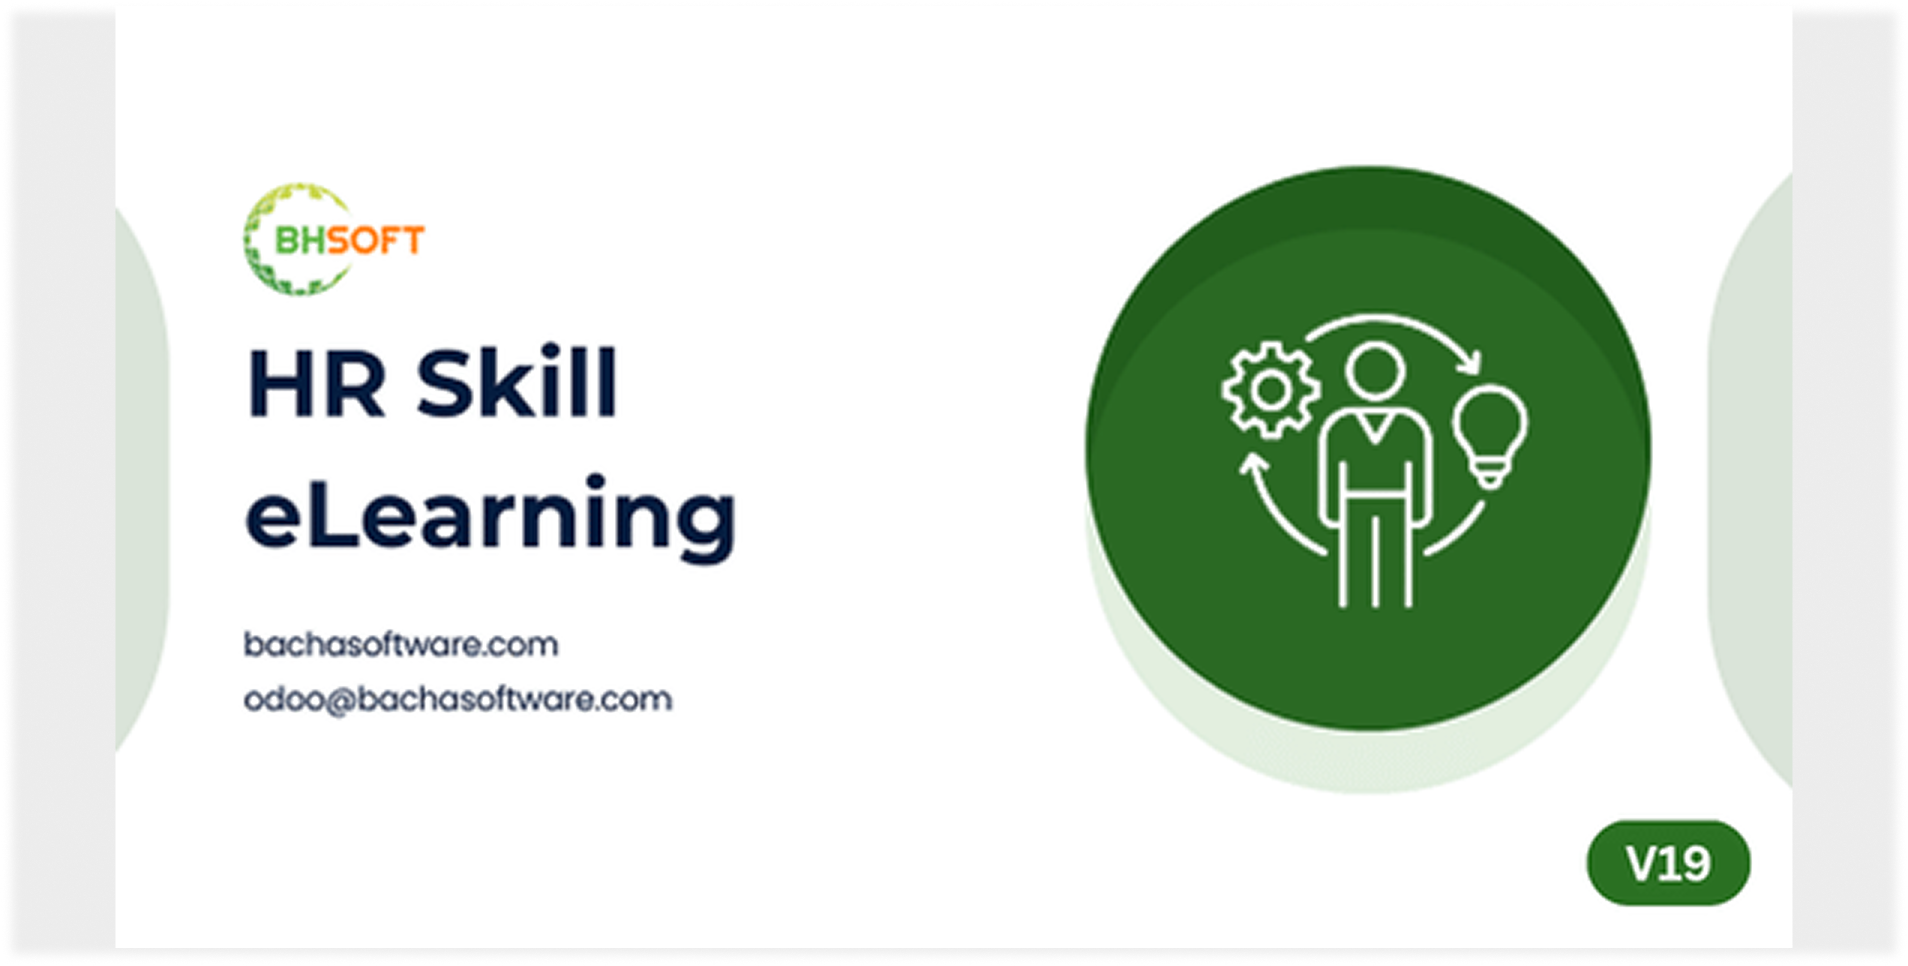
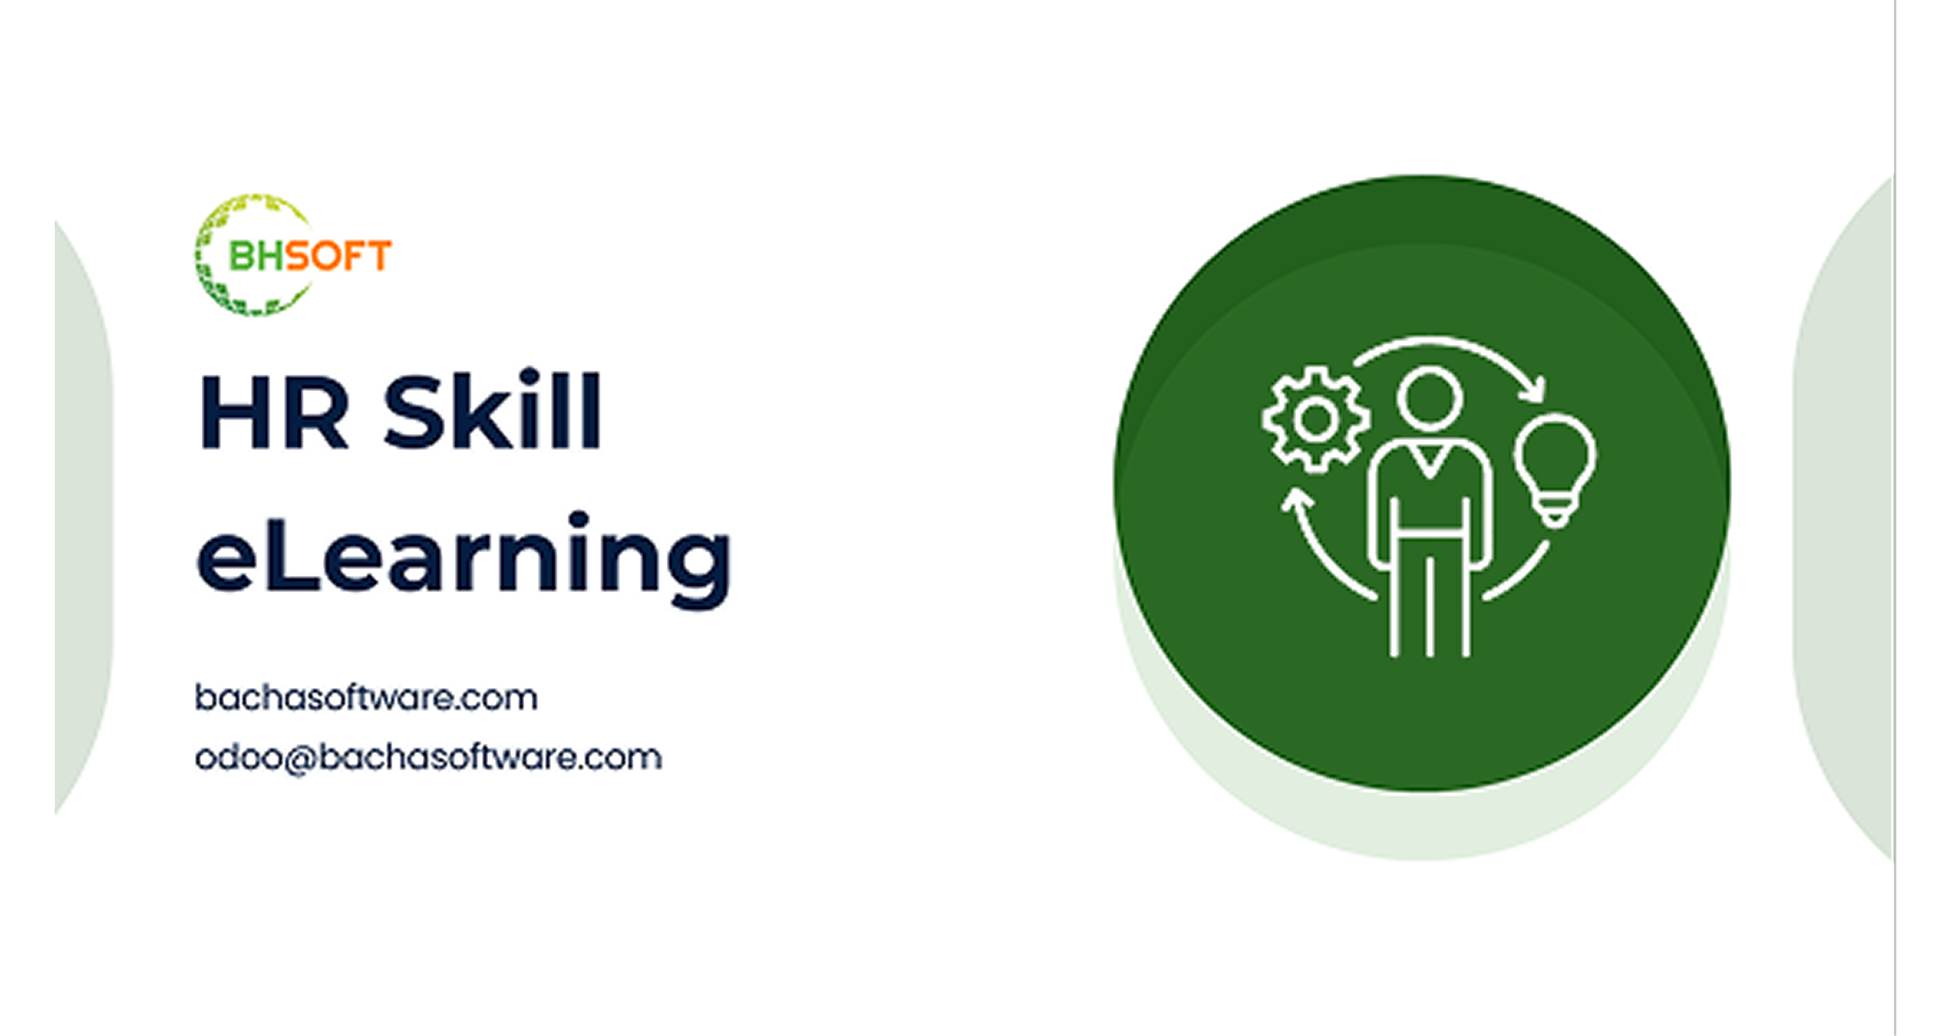
v19: update content and image orther module

diff --git a/bhs_hr_skill_elearning/__manifest__.py b/bhs_hr_skill_elearning/__manifest__.py
@@ -26,7 +26,7 @@
     ],
     'demo': [],
     "external_dependencies": {},
-    'images': ['static/description/banner.png'],
+    'images': ['static/description/info_banner.png'],
     'installable': True,
     'application': True,
     'auto_install': False,
